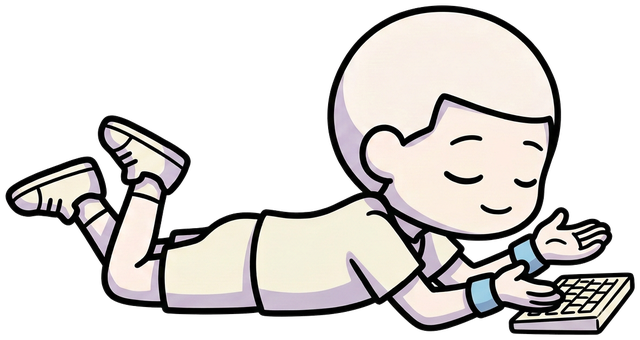
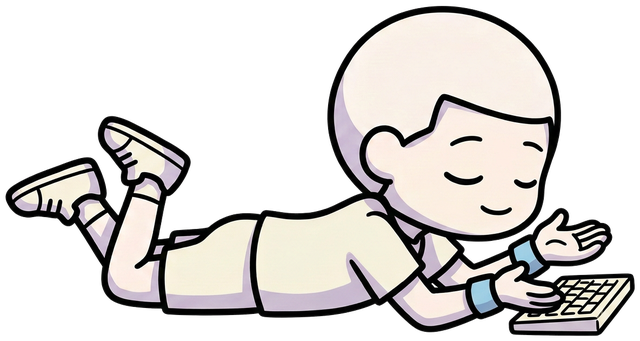
M05 video: narration font 34 px, a third typing frame (near hand lifted) so both hands strike; scripts/line_lengths.mjs

diff --git a/slides/m05/remotion/src/video/Character.tsx b/slides/m05/remotion/src/video/Character.tsx
@@ -3,6 +3,7 @@ import {Img} from 'remotion';
 import rest from './character/rest.png';
 import typeA from './character/typeA.png';
 import typeB from './character/typeB.png';
+import typeC from './character/typeC.png';
 import worry from './character/worry.png';
 import shrug from './character/shrug.png';
 import size from './character/size.json';
@@ -15,12 +16,14 @@ export const ASPECT = size.width / size.height;
  * The narrator, drawn by Gemini (scripts/gen_character.py, scripts/prep_character.py): five frames of the same boy lying flat on his stomach (side view, feet up, facing right toward the text), the head at
  * the same pixels in all of them. Which frame shows is a pure function of the frame number:
  * - 'rest': hands on the keys, no key pressed;
- * - 'type': while keys are being pressed, typeA and typeB alternate (every two keystrokes), so the fingers move with the sound;
+ * - 'type': while keys are being pressed, typeA / typeC / typeB / typeC follow one another (every two keystrokes), so that both hands strike with the sound;
  * - 'worry' (a troubled face, still at the keys) / 'shrug' (palms up, eyes closed): a reaction (timeline.reactionsOf) between two lines.
  * The groups blend over FADE frames; typeA <-> typeB is a hard cut.
  */
 const FADE = 6;
 const TYPING_AGE = 12; // frames after a key during which he is still typing
+/** the typing frames in turn, one step every two keystrokes: A lifts the far hand, C the near hand, B the far hand higher, so that both hands visibly strike */
+const TYPE_SEQ = ['typeA', 'typeC', 'typeB', 'typeC'];
 
 type Group = 'rest' | 'type' | Mood;
 
@@ -49,13 +52,20 @@ export const Character: React.FC<{frame: number; keys: {frame: number}[]; reacti
   for (let i = 0; i < FADE; i++) weight[groupAt(frame - i)] += 1 / FADE;
 
   const k = lastKey(frame);
-  const useA = Math.floor(Math.max(k, 0) / 2) % 2 === 0;
-  const opacity: Record<string, number> = {rest: weight.rest, typeA: useA ? weight.type : 0, typeB: useA ? 0 : weight.type, worry: weight.worry, shrug: weight.shrug};
+  const typeFrame = TYPE_SEQ[Math.floor(Math.max(k, 0) / 2) % TYPE_SEQ.length];
+  const opacity: Record<string, number> = {
+    rest: weight.rest,
+    typeA: typeFrame === 'typeA' ? weight.type : 0,
+    typeB: typeFrame === 'typeB' ? weight.type : 0,
+    typeC: typeFrame === 'typeC' ? weight.type : 0,
+    worry: weight.worry,
+    shrug: weight.shrug,
+  };
   const age = k >= 0 ? frame - keys[k].frame : 999;
   const bob = age < 4 ? 1.5 * (1 - age / 4) : 0; // the whole figure dips a little with each key
   const breathe = 1 + 0.012 * Math.sin(frame / 17);
 
-  const art: Record<string, string> = {rest, typeA, typeB, worry, shrug};
+  const art: Record<string, string> = {rest, typeA, typeB, typeC, worry, shrug};
   const height = width / ASPECT;
   return (
     <div style={{position: 'relative', width, height, transformOrigin: '50% 100%', transform: `translateY(${bob}px) scaleY(${breathe})`}}>

diff --git a/slides/m05/remotion/src/video/Narrator.tsx b/slides/m05/remotion/src/video/Narrator.tsx
@@ -12,12 +12,12 @@ const mono = loadMono('normal', {weights: ['400', '500'], subsets: ['latin']});
  * its right, plain terminal lines on the white page (a prompt, the text typed key by key, a block cursor, no frame). A new line starts at the
  * bottom of the two lines and the older lines move up and fade; two lines at most.
  */
-const FONT = 31;
-const LINE = 46;
+const FONT = 34;
+const LINE = 50;
 const BX = 520; // left edge of the lines
 export const BAND = 228; // height of the band at the TOP of the video that holds the figure and the lines; the slide is shown under it
-const TOP = 94; // distance of the two lines from the top edge
-const WIDTH = 1300;
+const TOP = 85; // distance of the two lines from the top edge (they are centred on the figure)
+const WIDTH = 1390; // the longest line is 63 characters + the prompt + the cursor = 66.7 characters of 34 px mono = 1360 px: it must not wrap
 const FIG_H = 166; // height of the figure; its width follows from the aspect of the frames
 const FIG_W = Math.round(FIG_H * ASPECT);
 const FADE = [1, 0.6, 0, 0]; // opacity by age: the newest line, the one before, ...; two lines fit above the bottom margin
@@ -52,7 +52,7 @@ export const Narrator: React.FC<{frame: number; bubbles: Bubble[]; keys: {frame:
           lineHeight: `${LINE}px`,
           color: C.ink,
           opacity: fadeOut,
-          whiteSpace: 'pre-wrap',
+          whiteSpace: 'pre',
         }}
       >
         {shown.map((b, i) => {
@@ -70,7 +70,7 @@ export const Narrator: React.FC<{frame: number; bubbles: Bubble[]; keys: {frame:
           const typingNow = frame >= b.start && frame < b.typedEnd + 2;
           const blinkOn = typingNow || Math.floor(frame / 15) % 2 === 0;
           return (
-            <div key={`${b.slide}-${b.stage}-${b.index}`} style={{position: 'absolute', left: 0, bottom: rank * LINE, opacity: o, transform: `translateY(${shift}px)`, whiteSpace: 'pre-wrap'}}>
+            <div key={`${b.slide}-${b.stage}-${b.index}`} style={{position: 'absolute', left: 0, bottom: rank * LINE, opacity: o, transform: `translateY(${shift}px)`, whiteSpace: 'pre'}}>
               <span style={{color: C.blue, fontWeight: 500}}>{PROMPT} </span>
               {text}
               {isNewest && (

diff --git a/slides/m05/remotion/scripts/gen_character.py b/slides/m05/remotion/scripts/gen_character.py
@@ -172,6 +172,22 @@ CANDIDATES_PFRAME = {
     3: ('TROUBLED FACE WHILE STILL TYPING. Only the face changes: the eyebrow drawn as a short slanted line tilted down toward the middle (worried), the eye a small dash, the mouth a small wavy line instead of the smile, and one small blue sweat drop near the temple. The hands stay on the keyboard exactly as in the first image.', 'worry'),
     4: ('TROUBLED FACE WHILE STILL TYPING, stronger. Only the face changes: both eyebrows as short slanted lines tilted down toward the middle, the eye looking down and sideways at the keyboard, a small wavy mouth, and one small blue sweat drop near the temple. The hands stay on the keyboard exactly as in the first image.', 'worry'),
     5: ('RELAXED SHRUG. The eye is closed as a slim calm arc, a small content smile, the shoulders raised a little, and both hands lifted off the keyboard and held open with the palms up beside it, like a gentle shrug. The feet stay up as in the first image.', 'shrug'),
+    7: ('TYPING FRAME C (the opposite of frame A). Only the hands change: the hand nearest the viewer, with the wristband in front, is lifted clearly above the keys, about the height of a hand, the wrist raised, the fingers curled and spread as if about to strike; the other hand, behind it, is pressed flat on the keys. The face stays exactly as in the first image.', None),
+    8: ('TYPING FRAME C2. Only the hands change: the hand nearest the viewer is lifted high above the keys with the index finger pointing down at a key, the wrist raised; the other hand, behind it, presses on the keys. The face stays exactly as in the first image.', None),
+    9: ('HOVERING FRAME. Only the hands change: both hands are lifted a little off the keys with a visible gap, the fingers curled, as a typist hovers between bursts. The face stays exactly as in the first image.', None),
+    10: ('TYPING FRAME C3. Only the hands change: the hand nearest the viewer is lifted high and tilted, the fingers curled, with two tiny short motion lines beside the fingers; the other hand, behind it, presses flat on the keys. The face stays exactly as in the first image.', None),
+    11: ('TYPING FRAME C, the opposite of frame A. At the keyboard there are two hands: an UPPER hand (farther from the viewer, behind, higher in the picture) and a LOWER hand (nearer to the viewer, in front, lower in the picture, the one with the lower wristband). In the first image the LOWER hand is pressed flat on the keys. Now the LOWER hand is lifted clearly off the keys, with a visible gap of about the height of a hand, the wrist raised and the fingers curled as if about to strike, while the UPPER hand is pressed flat on the keys. Only the hands change; the face stays exactly as in the first image.', None),
+    12: ('TYPING FRAME C2. At the keyboard there are two hands: an UPPER hand (farther from the viewer, behind, higher in the picture) and a LOWER hand (nearer to the viewer, in front, lower in the picture). Now the LOWER hand is lifted high above the keys with the fingers spread and curled like a claw, the wrist raised, while the UPPER hand is pressed flat on the keys. Only the hands change; the face stays exactly as in the first image.', None),
+    13: ('TYPING FRAME C3. At the keyboard there are two hands: an UPPER hand (farther from the viewer, behind) and a LOWER hand (nearer to the viewer, in front, lower in the picture). Now the LOWER hand is raised just off the keys, one fingertip about to touch a key, while the UPPER hand is pressed flat on the keys with the wrist low. Only the hands change; the face stays exactly as in the first image.', None),
+    14: ('TYPING FRAME C, with the roles of the hands swapped. The SECOND attached image shows the OPPOSITE of what I want: in it the UPPER hand (farther from the viewer) is lifted and the LOWER hand (nearer to the viewer) presses the keys. Draw the opposite of the second image: the LOWER hand, the one nearer to the viewer with the lower wristband, is lifted clearly off the keys with the wrist raised and the fingers curled, and the UPPER hand is pressed flat on the keys. Everything else stays as in the first image; copy nothing else from the second image.', None),
+    15: ('TYPING FRAME C2, roles swapped. The SECOND attached image shows the OPPOSITE of what I want: its UPPER hand is lifted and its LOWER hand (nearer to the viewer) presses. Draw the opposite: the LOWER hand is raised high above the keys with spread, curled fingers, the wrist well off the keys, and the UPPER hand presses a key with its fingers. Everything else stays as in the first image; copy nothing else from the second image.', None),
+    16: ('TYPING FRAME C3, roles swapped. The SECOND attached image shows the OPPOSITE of what I want: its UPPER hand is lifted and its LOWER hand (nearer to the viewer) presses. Draw the opposite: the LOWER hand hovers a little above the keys with the fingers curled, ready to strike, and the UPPER hand is pressed down on the keys. Everything else stays as in the first image; copy nothing else from the second image.', None),
+    17: ('TYPING FRAME C. The attached picture is the character with a RED CIRCLE and a RED ARROW drawn on it as instructions. The red circle marks the LOWER hand (the one with the lower wristband, in front); the red arrow says that this hand must move UP. In the result the circled LOWER hand is lifted clearly off the keys, about the height of a hand above them, the wrist raised, the fingers curled as if about to strike, and the other (UPPER) hand is pressed flat on the keys. REMOVE the red circle and the red arrow completely. Everything else stays exactly as it is in the picture, including the face, the body, the feet and the keyboard.', None),
+    18: ('TYPING FRAME C2. The attached picture has a RED CIRCLE and a RED ARROW drawn on it as instructions: the circle marks the LOWER hand (with the lower wristband, in front) and the arrow says it must move UP. In the result the LOWER hand is raised high above the keys with spread, curled fingers, the wrist well above the keyboard, while the UPPER hand presses down on the keys. REMOVE the red circle and the red arrow completely. Everything else stays exactly as in the picture.', None),
+    19: ('TYPING FRAME C3. The attached picture has a RED CIRCLE and a RED ARROW drawn on it as instructions: the circle marks the LOWER hand (with the lower wristband, in front) and the arrow says it must move UP. In the result the LOWER hand hovers just above the keys, the fingertips about to touch a key, while the UPPER hand is pressed down on the keys. REMOVE the red circle and the red arrow completely. Everything else stays exactly as in the picture.', None),
+    20: ('TYPING FRAME C, cleaned up from a rough collage. The attached picture is a ROUGH COLLAGE: the LOWER hand (in front, with the lower wristband) was cut out and rotated upward about the wrist, so that it is lifted above the keys, and a flat cream patch was painted on the keyboard where it used to be. Redraw the picture cleanly in the same drawing style: KEEP the lower hand lifted exactly where it is now (the fingers curled, about to strike), join its wrist smoothly to the forearm and the wristband, remove the rough edges, redraw the keys of the keyboard under the lifted hand where the cream patch is, and keep the UPPER hand pressing the keys. Everything else (the head, the face, the body, the feet, the position of the keyboard) must stay exactly as it is.', None),
+    21: ('TYPING FRAME C2, cleaned up from a rough collage. The attached picture is a ROUGH COLLAGE: the LOWER hand (in front, with the lower wristband) was cut out and rotated upward about the wrist so that it is lifted above the keys, and a flat cream patch was painted on the keyboard where it used to be. Redraw it cleanly in the same drawing style, keeping the lower hand lifted where it is, with a clearly readable hand shape: four fingers curled down and the thumb, the wrist joined smoothly to the forearm; redraw the keyboard keys under it; keep the UPPER hand pressing the keys, and keep the two hands clearly separate. Everything else stays exactly as it is.', None),
+    22: ('TYPING FRAME C3, cleaned up from a rough collage. The attached picture is a ROUGH COLLAGE: the LOWER hand (in front, with the lower wristband) was cut out and rotated upward about the wrist so that it is lifted above the keys. Clean it up in the same drawing style: keep the lower hand lifted where it is, hovering above the keys with relaxed curled fingers; make the wrist and forearm join smoothly; redraw the keyboard keys where the cream patch is; keep the UPPER hand pressing the keys. Everything else stays exactly as it is.', None),
     6: ('SHRUG, elbows out. The eye closed as a slim arc, a small content smile, the head tilted a little to one side, both forearms lifted off the floor with the elbows out and the open hands palms up near the keyboard. The feet stay up as in the first image.', 'shrug'),
 }
 CANDIDATES_POSE = {

diff --git a/slides/m05/remotion/scripts/prep_character.py b/slides/m05/remotion/scripts/prep_character.py
@@ -11,8 +11,8 @@ from PIL import Image
 
 SRC = 'out/character'
 OUT = 'src/video/character'
-# frame name -> source picture (see scripts/gen_character.py: base2 = P2 (the prone boy, feet up), pframe-1/2 = typing A/B, pframe-3 = troubled face while typing, pframe-5 = shrug)
-FRAMES = {'rest': 'base2', 'typeA': 'pframe-1', 'typeB': 'pframe-2', 'worry': 'pframe-3', 'shrug': 'pframe-5'}
+# frame name -> source picture (see scripts/gen_character.py: base2 = P2 (the prone boy, feet up), pframe-1/2 = typing A/B (the far hand lifted), pframe-21 = typing C (the near hand lifted, made from a rough collage cleaned up by the model), pframe-3 = troubled face while typing, pframe-5 = shrug)
+FRAMES = {'rest': 'base2', 'typeA': 'pframe-1', 'typeB': 'pframe-2', 'typeC': 'pframe-21', 'worry': 'pframe-3', 'shrug': 'pframe-5'}
 WIDTH = 640  # px of the saved frames; they are shown at about 260 px, so this is sharp at 2x
 SEARCH = 70  # largest shift tried, px
 

diff --git a/slides/NARRATED_VIDEO_GUIDE.md b/slides/NARRATED_VIDEO_GUIDE.md
@@ -110,12 +110,12 @@ Extract the audio of a rendered clip (`npx remotion ffmpeg -i clip.mp4 -vn -ac 1
 
 The lecturer asked for **plain terminal lines instead of message boxes**: white page, no frame, a prompt (`$ `, blue) before each line, monospace type (JetBrains Mono), a block cursor on
 the line being typed. A new line starts at the bottom; the older lines move up one line and fade (`FADE` in `Narrator.tsx`). Position: figure at x 120 to 432 (top 52, 166 px high), text from x 520
-(top 94): **two lines** of 46 px, in the band at the top of the video. (Lecturer: more margin above the figure; the narration a little to the right.)
+(top 85): **two lines** of 50 px, 34 px JetBrains Mono (`FONT`, `LINE`, `WIDTH` in `Narrator.tsx`), in the band at the top of the video. A line never wraps (`white-space: pre`): the longest line, 63 characters plus the prompt and the cursor, is 1360 px of the 1390 px of `WIDTH` (a wrapped line grows upward over the line above); `node scripts/line_lengths.mjs` prints the line lengths, so check it before raising the font again. (Lecturer: more margin above the figure; the narration a little to the right.)
 
 The figure is a boy lying flat on his stomach, seen from the side and facing right toward the text, knees bent and feet in the air (chosen P2), drawn by a Gemini image model (below) in the
 touch of the lecturer's reference images (thick black outlines, soft off-white fills, a hint of pale lavender shading). (The first design, D1, had the face to the viewer and the body lying
 sideways: the lecturer found the body too twisted; it is in `out/character/`.) `Character.tsx` swaps five frames (`src/video/character/*.png`, committed; the head and the keyboard are at the same pixels in all of them):
-`rest` (hands on the keys), `typeA` / `typeB` (alternate every two keystrokes while keys are being pressed, so the fingers follow the sound), `worry` (a troubled face with a sweat drop, **still at the keys**) and
+`rest` (hands on the keys), `typeA` / `typeC` / `typeB` / `typeC` (in turn, one step every two keystrokes while keys are being pressed: A lifts the far hand, C the **near** hand, B the far hand higher, so both hands visibly strike; with only A and B the near hand never moved and it did not look like typing), `worry` (a troubled face with a sweat drop, **still at the keys**) and
 `shrug` (eyes closed, palms up). The frame is a pure function of the frame number; groups blend over 6 frames, A to B is a hard cut; the whole figure breathes and dips 1.5 px on each key.
 
 **Reactions** (`src/video/moods.ts`): after the last line of a named stage is typed he shows the mood (worry: the face changes; shrug: the hands leave the keys) for about 3 s (until 6 frames before the next line,
@@ -128,7 +128,7 @@ no diagonal, Rand fooled, K = 8) and 3 shrug (a high Q proves nothing, NMI and A
 never written to a file; a few cents per image; `out/character/<set>-N.png` and the prompt in `<set>-N.txt`). The request is a chat completion with `modalities: ["image", "text"]` and
 `image_config.aspect_ratio`; reference images go in as `image_url` parts (the first is the character to keep, the others only the touch); the image comes back as a base64 data URL in
 `choices[0].message.images[0]`. The sets are the steps of the design: `words` (touch described in words), `ref`, `white`, `boy`, `glasses`, `lines`, `b4` (restyle), `gaze`, `touch`, `both`
-(both hands on the keyboard: D1 = `both-1`), `pose` (typing A/B, troubled, happy, shrug, from D1; `--ref out/character/base.png`, the expression references in `out/character/expr/`), `prone` (four side-view prone candidates, `--ref out/character/base.png`; P2 = `prone-2`, copied to `base2.png`), `pframe` (the frames of the chosen P2: typing A/B, two troubled faces, two shrugs; `--ref out/character/base2.png`; used: `pframe-1`, `-2`, `-3`, `-5`).
+(both hands on the keyboard: D1 = `both-1`), `pose` (typing A/B, troubled, happy, shrug, from D1; `--ref out/character/base.png`, the expression references in `out/character/expr/`), `prone` (four side-view prone candidates, `--ref out/character/base.png`; P2 = `prone-2`, copied to `base2.png`), `pframe` (the frames of the chosen P2: typing A/B, two troubled faces, two shrugs; `--ref out/character/base2.png`; used: `pframe-1`, `-2`, `-3`, `-5`, and `-21`). The model kept lifting the far hand however the near hand was named in words (UPPER/LOWER hand, an annotated picture with a red arrow, a picture of the opposite state: all failed); what worked for the near hand (`pframe-21`, typing C) was a **rough collage of my own**: the near hand cut out (polygon) and rotated 16 degrees about the wrist in `out/character/collage-a.png`, then `--ref out/character/collage-a.png` with a prompt asking the model to clean it up (keep the lifted hand where it is, join the wrist, redraw the keys under it): 1 of 3 samples kept the hand lifted.
 Lessons: ask for **the same camera and the same place of the head** (then the frames swap without a jump: the head outline came out pixel-identical), and say explicitly that **the keyboard stays on
 the floor at the same place in every frame** (otherwise it disappears or moves).
 `python3 scripts/prep_character.py` makes the video frames (its `FRAMES` table says which picture is which): the white page is flood-filled from the border (the outline is closed) and made transparent, each frame is shifted so that the head matches
